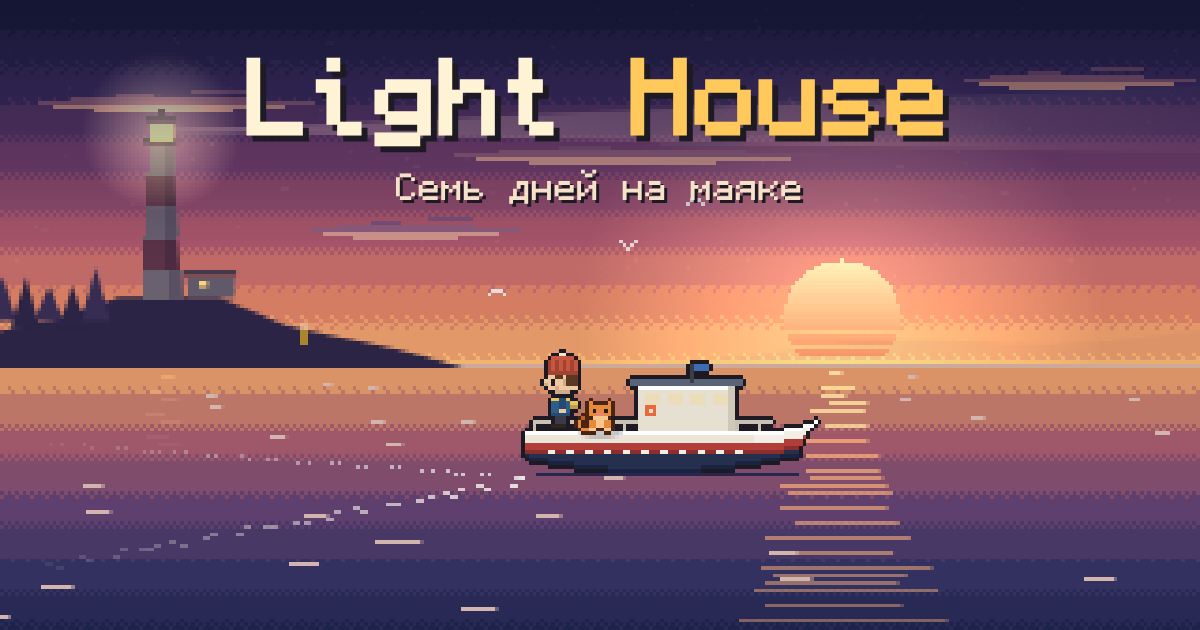
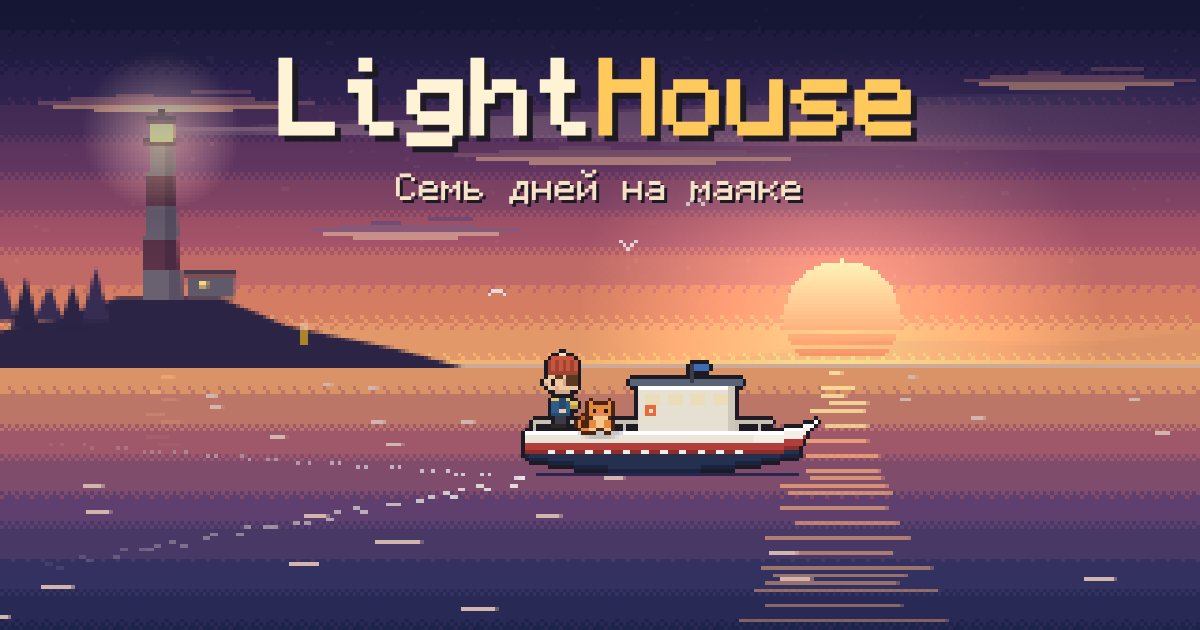
Title over the sunset scene (no boat), LightHouse as one word, about 1.5 hours
Claude-Session: https://claude.ai/code/session_01CkDa2TRQKm4vnpWNKiwC8y

Changed region(s): [[0.185, 0.0905, 0.8017, 0.2413]]

diff --git a/js/soul/ridehome.js b/js/soul/ridehome.js
@@ -50,7 +50,7 @@ function cutterSprite() {
     R(g, 32, 11, 3, 3, '#e86a3a'); R(g, 33, 12, 1, 1, '#e6e0d2');
   });
 }
-function drawRideHome(c, w, h, t, k) {
+function drawRideHome(c, w, h, t, k, o = {}) {
   const hor = Math.round(h * .58), ks = smooth(k);
   c.drawImage(rideSky(w, hor, ks), 0, 0);
   // stars come out as the sun goes down
@@ -94,7 +94,7 @@ function drawRideHome(c, w, h, t, k) {
   R(c, lx + 9 * s, lb - 7 * s, 16 * s, 7 * s, mixHex('#d6cdbb', land, 1 - stripeA * .8)); R(c, lx + 8 * s, lb - 9 * s, 18 * s, 2 * s, mixHex('#6c584a', land, .6)); R(c, lx + 13 * s, lb - 5 * s, 3 * s, 2 * s, '#ffd477');
   // friends on the pier, waving, while they can still be seen
   const who = presentAtFarewell(), cols = { matvey: '#e7b521', lida: '#3c6db0', sonya: '#e9d9b8', nyura: '#6a8a4a' };
-  if (ks < .55) { c.globalAlpha = clamp((.55 - ks) * 4, 0, 1); who.forEach((id, i) => { const px = Math.round(ix + 48 * s + i * 5 * s), py = Math.round(base - 8 * s); R(c, px, py - 4, 2, 4, cols[id] || '#ccc'); R(c, px, py - 6, 2, 2, '#e8c4a0'); if (Math.sin(t * 6 + i * 1.3) > 0) R(c, px + 2, py - 7, 1, 3, '#e8c4a0'); }); c.globalAlpha = 1; }
+  if (ks < .55 && !o.noBoat) { c.globalAlpha = clamp((.55 - ks) * 4, 0, 1); who.forEach((id, i) => { const px = Math.round(ix + 48 * s + i * 5 * s), py = Math.round(base - 8 * s); R(c, px, py - 4, 2, 4, cols[id] || '#ccc'); R(c, px, py - 6, 2, 2, '#e8c4a0'); if (Math.sin(t * 6 + i * 1.3) > 0) R(c, px + 2, py - 7, 1, 3, '#e8c4a0'); }); c.globalAlpha = 1; }
   if ((S.flags.boat | 0) >= 4) { const nx = Math.round(ix + 70 * s), ny = base + 2; R(c, nx - 6 * s, ny - 2, 12 * s, 2, land2); if ((S.flags.boat | 0) >= 5) { R(c, nx, ny - 12 * s, 1, 10 * s, land); c.fillStyle = mixHex('#efe6d6', land, .5); c.beginPath(); c.moveTo(nx + 1, ny - 11 * s); c.lineTo(nx + 7 * s, ny - 3); c.lineTo(nx + 1, ny - 3); c.fill(); } }
   // the beam sweeps round; it gets stronger as it gets dark
   const beamA = clamp(.25 + ks * .9, 0, 1), a = t * .8, dx = Math.cos(a), len = w * (.35 + .65 * Math.abs(dx)), bw = 3 + 18 * (1 - Math.abs(Math.sin(a))), ly = lt - 5 * s;
@@ -105,6 +105,7 @@ function drawRideHome(c, w, h, t, k) {
   // its glitter on the water at dusk
   if (ks > .3) for (let y = hor + 3; y < hor + 26; y += 2) { if (Math.sin(t * 4 + y * 2.1) < .1) continue; c.globalAlpha = (ks - .3) * (1 - (y - hor) / 30); R(c, lx - 2 + Math.sin(y + t * 2) * 2, y, 3 + (y - hor) * .15, 1, '#ffd890'); }
   c.globalAlpha = 1; c.globalCompositeOperation = 'source-over';
+  if (o.noBoat) return; // the title screen: just the island, the sea and the sunset
   // gulls following the boat for a while
   const bx = Math.round(w * .56), by = Math.round(hor + 30 + Math.sin(t * 1.5) * 1.2);
   if (ks < .7) { c.globalAlpha = clamp((.7 - ks) * 3, 0, 1); for (let i = 0; i < 3; i++) { const gx = Math.round(bx - 40 + i * 22 + Math.sin(t * .7 + i * 2) * 8), gy = Math.round(hor - 24 - i * 9 + Math.sin(t * 1.1 + i) * 4), up = Math.sin(t * 6 + i * 2) > 0; c.fillStyle = mixHex('#fff4e6', '#c9c0d8', ks); R(c, gx, gy, 1, 1, c.fillStyle); R(c, gx - 1, gy - (up ? 1 : 0), 1, 1, c.fillStyle); R(c, gx - 2, gy - (up ? 2 : -1), 1, 1, c.fillStyle); R(c, gx + 1, gy - (up ? 1 : 0), 1, 1, c.fillStyle); R(c, gx + 2, gy - (up ? 2 : -1), 1, 1, c.fillStyle); } c.globalAlpha = 1; }

diff --git a/index.html b/index.html
@@ -4,11 +4,11 @@
 <meta charset="utf-8">
 <meta name="viewport" content="width=device-width,initial-scale=1,viewport-fit=cover">
 <title>Light House</title>
-<meta name="description" content="Семь дней на маяке. Тихая пиксельная игра про последнюю смену смотрителя: линза, рыбалка, письма из дома, кот и закаты. Около двух часов, играется в браузере и на телефоне.">
+<meta name="description" content="Семь дней на маяке. Тихая пиксельная игра про последнюю смену смотрителя: линза, рыбалка, письма из дома, кот и закаты. Около полутора часов, играется в браузере и на телефоне.">
 <meta property="og:type" content="website">
 <meta property="og:site_name" content="Light House">
-<meta property="og:title" content="Light House — семь дней на маяке">
-<meta property="og:description" content="Тихая пиксельная игра про последнюю смену смотрителя маяка. Около двух часов, прямо в браузере и на телефоне.">
+<meta property="og:title" content="LightHouse — семь дней на маяке">
+<meta property="og:description" content="Тихая пиксельная игра про последнюю смену смотрителя маяка. Около полутора часов, прямо в браузере и на телефоне.">
 <meta property="og:image" content="https://llinajoo.github.io/lighthouse.github.io/og.png">
 <meta property="og:image:width" content="1200">
 <meta property="og:image:height" content="630">
@@ -60,7 +60,7 @@
 <div id="fade"></div>
 <div id="daycard"><div><div class="n" id="dcN">День 1</div><div class="s" id="dcS"></div><div class="w" id="dcW"></div></div></div>
 <div id="title">
-  <h1>Light <span>House</span></h1>
+  <h1>Light<span>House</span></h1>
   <p>Семь дней на маяке. Последняя смена перед дорогой домой.</p>
   <div class="row"><button class="btn primary" id="bStart" type="button">Начать смену</button><button class="btn" id="bCont" type="button" hidden>Продолжить</button></div>
   <small>WASD или стрелки · Shift — бег · E — действие · I — сумка · J — дневник · M — карта</small>

diff --git a/js/soul/about.js b/js/soul/about.js
@@ -9,11 +9,11 @@ function openInfo(kind) { DOC_ON = true; DOC.id = kind; DOC.after = null; DOC.fl
     const body = $('#docBody'); body.innerHTML = ''; $('#docFlip').hidden = true;
     const p = hand('div', 'paper info');
     if (DOC.id === 'about') {
-      p.append(hand('h2', 'info-t', 'Light House'), hand('p', 'info-sub', 'Семь дней на маяке'));
+      p.append(hand('h2', 'info-t', 'LightHouse'), hand('p', 'info-sub', 'Семь дней на маяке'));
       [
         'Последняя смена смотрителя маяка. Через неделю за ним придёт катер, а пока на острове есть дела: почистить линзу, смазать механизм, наколоть дров, зажечь огонь в пять вечера и записать прожитый день в журнал.',
         'Это тихая игра про заботу: о маяке, о людях, которые приплывают на остров, о птицах и тюленях, о рыжем коте и о семье, которая ждёт на берегу. Здесь нельзя проиграть и некуда спешить.',
-        'Полная неделя занимает примерно два часа. Игра сама сохраняется после каждого сделанного дела, так что её можно закрыть и вернуться.',
+        'Полная неделя занимает примерно полтора часа. Игра сама сохраняется после каждого сделанного дела, так что её можно закрыть и вернуться.',
       ].forEach(t => p.appendChild(hand('p', '', t)));
       p.appendChild(hand('div', 'info-h', 'Управление'));
       p.appendChild(hand('p', '', 'На компьютере: WASD или стрелки — идти, Shift — бегом, E или пробел — действие. I — сумка, J — дневник, M — карта, K — атлас. На телефоне: джойстик слева и кнопка A справа.'));

diff --git a/css/style.css b/css/style.css
@@ -358,3 +358,8 @@ body.qcut #hud,body.qcut #prompt,body.qcut #toasts{transition:none!important}
 .info-ta{width:100%;box-sizing:border-box;font-family:var(--f-body);font-size:15px;padding:8px;border:2px solid #b8a27a;background:#fffaf0;color:#3b2f22;resize:vertical}
 #title .row.small .btn{font-size:15px;padding:6px 14px}
 .paper.info .info-link{justify-self:start;text-decoration:none;display:inline-block}
+/* title over the sunset: a dark outline on the letters and a soft shade behind the text */
+#title::before{content:'';position:absolute;inset:auto 0 0 0;height:62%;background:linear-gradient(transparent,rgba(12,12,34,.55) 45%,rgba(12,12,34,.7));pointer-events:none;z-index:-1}
+#title h1{text-shadow:-3px 0 0 #1d1a24,3px 0 0 #1d1a24,0 -3px 0 #1d1a24,0 3px 0 #1d1a24,6px 6px 0 #1d1a24}
+#title p{color:#f2e6cc;text-shadow:0 2px 0 #1d1a24,0 0 6px rgba(12,12,34,.8)}
+#title small{color:#d4c6ac;text-shadow:0 1px 0 #1d1a24}

diff --git a/js/main.js b/js/main.js
@@ -419,7 +419,7 @@ function updateFx(dt) {
 // ---------- draw world ----------
 function draw() {
   ctx.setTransform(1, 0, 0, 1, 0, 0); ctx.globalAlpha = 1; ctx.globalCompositeOperation = 'source-over';
-  if (G.mode === 'title') return drawSide(ctx, VW, VH, G.time, { night: true, islandX: VW * .38, s: 1, title: 1 });
+  if (G.mode === 'title') return drawRideHome(ctx, VW, VH, G.time, .38, { noBoat: true });
   if (G.mode === 'ending') return drawEnding();
   if (G.mode === 'sail') return drawSail();
   const cam = { x: Math.round(G.cam.x), y: Math.round(G.cam.y) };
